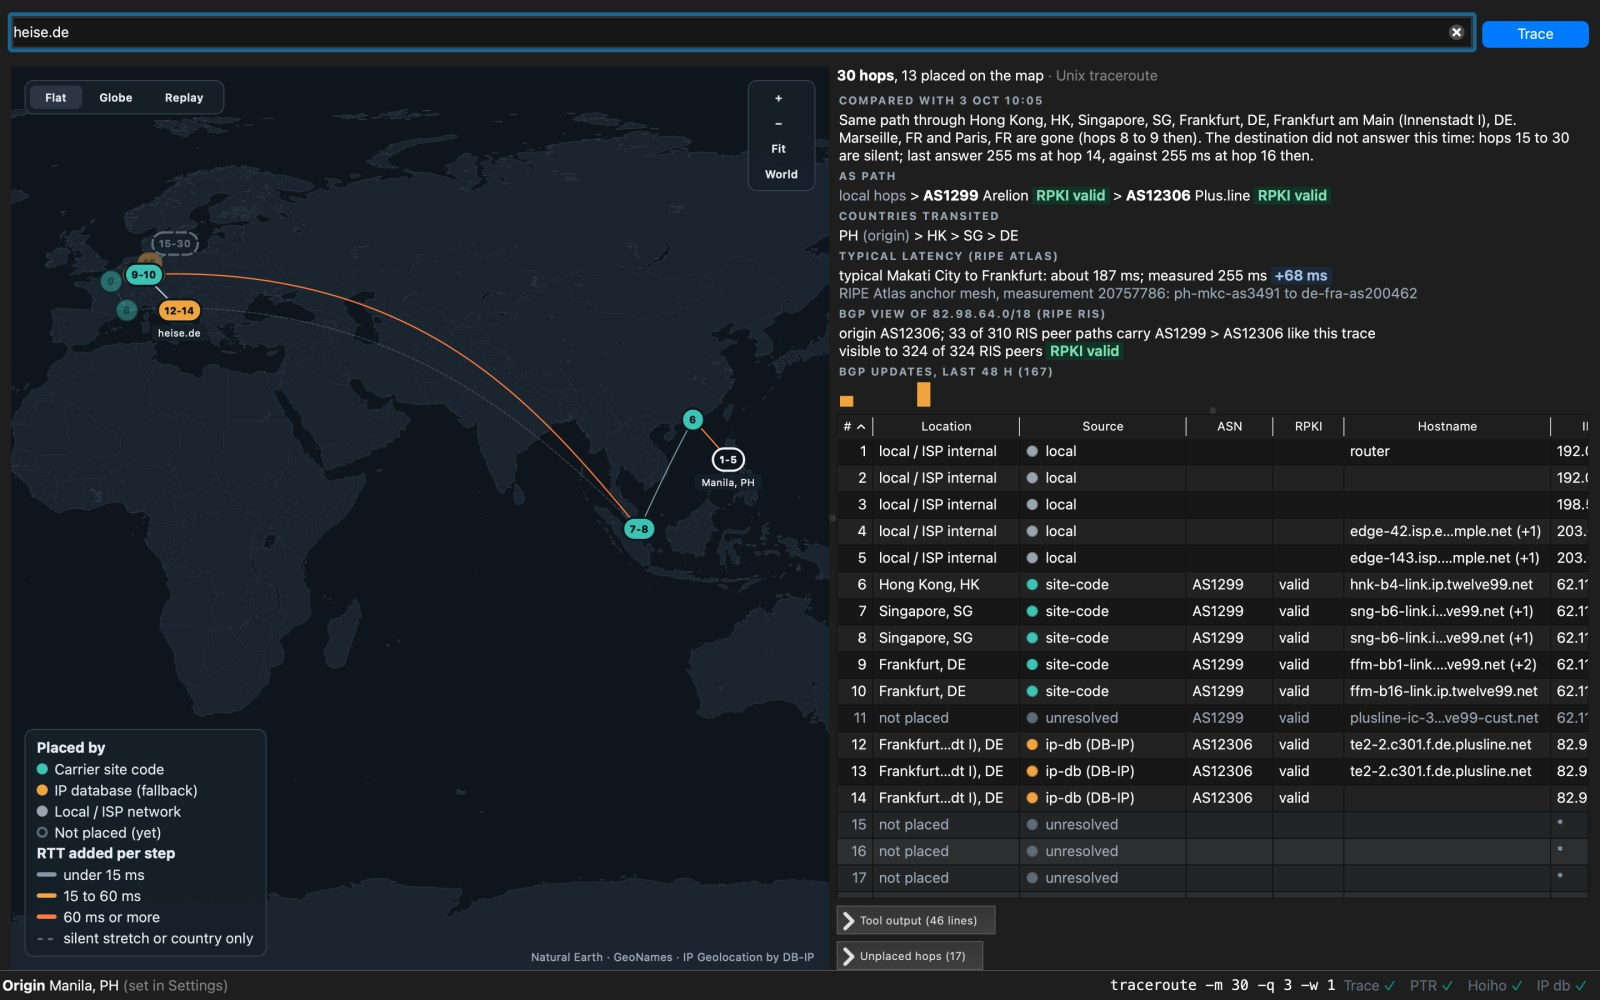
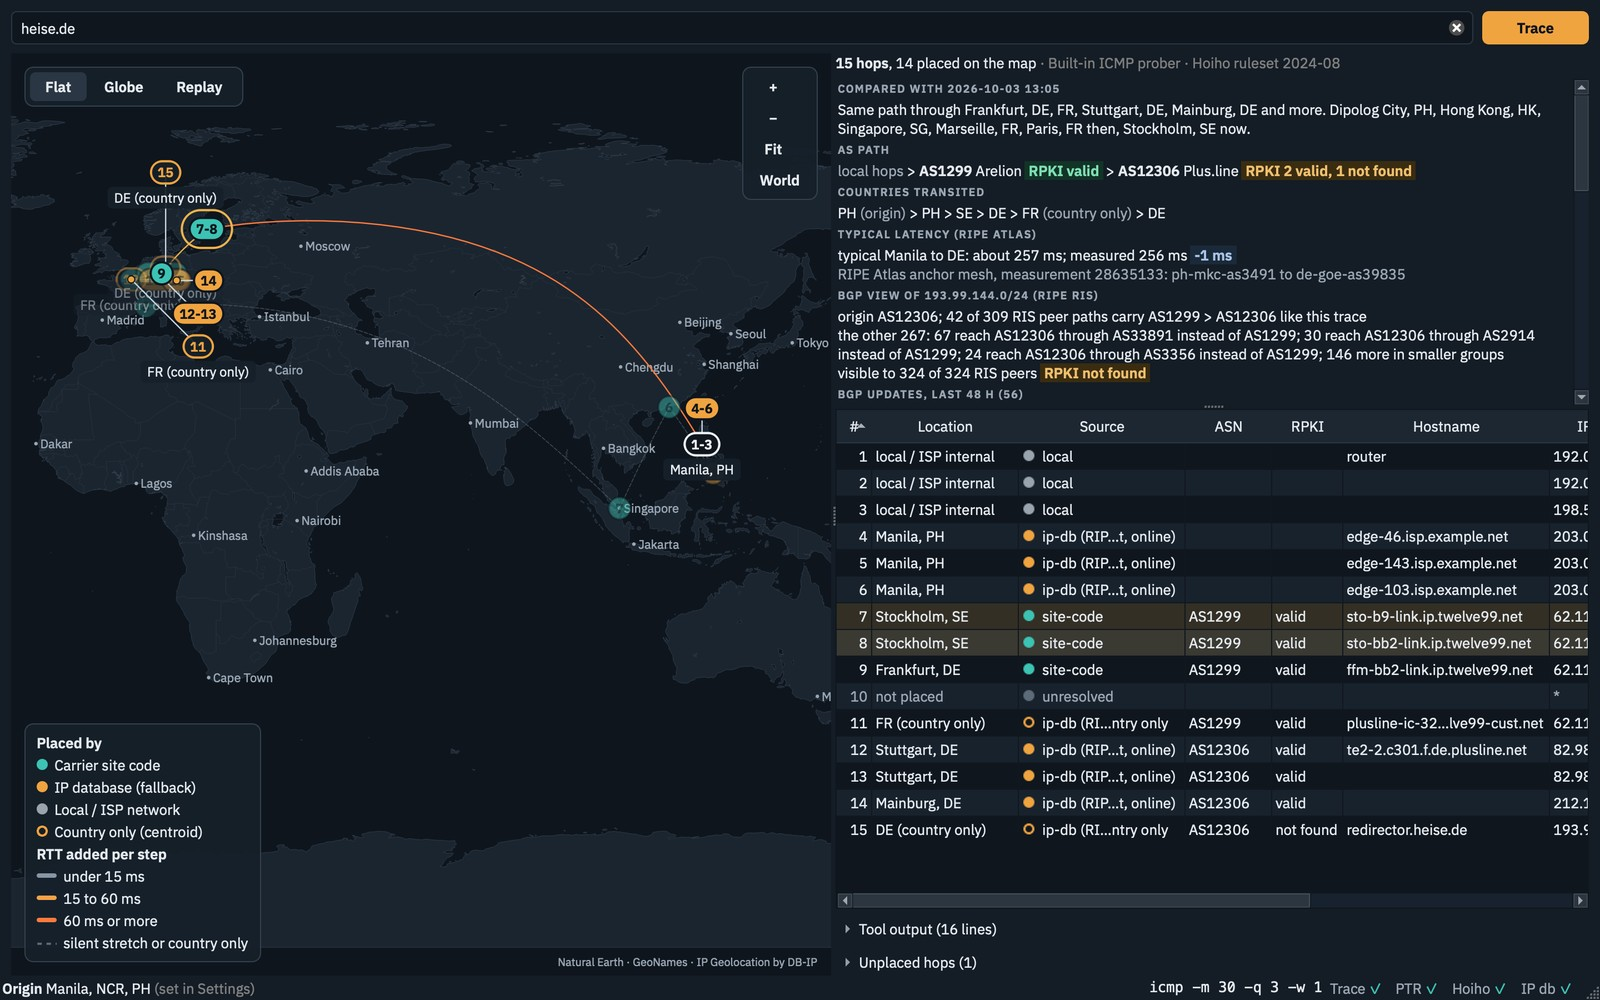
Site: screenshots from 0.2.0-beta.3 with live traces from Manila
Every app image on the home and screenshots pages is new, drawn by
0.2.0-beta.3 with live traces from the built-in prober (the home network
and ISP hops carry documentation addresses): heise.de via Stockholm and
Frankfurt, www.spiegel.de for the rejected placement, amazon.com for the
unplaced hops, and a comparison with the run of 3 October. The PDF page
and the light PNG export come from the installed release. Captions say
what each image shows; the share cards are rendered again from the new
window image.

diff --git a/site/content/home.html b/site/content/home.html
@@ -8,8 +8,8 @@
   {{downloads}}
   <p class="oss"><span class="badge">Free and open source, AGPL-3.0</span>
   <a class="source" href="{{repository}}">github.com/osintph/routemap</a></p>
-  [[pic window jpg 1600 1000 hero|Route Map with a recorded trace from Manila to heise.de: great-circle lines through Hong Kong, Singapore, Marseille and Paris to Frankfurt, coloured by the round-trip time each step added; beside the map the AS path with RPKI badges, the countries crossed, a RIPE Atlas baseline, the RIS view and 48 hours of BGP updates; below, the hop table with ASN and RPKI, and the details of hop 7 in Singapore]]
-  <p class="crop-note">A recorded trace from Manila to heise.de, origin set in Settings. The first five hops, the home network and the ISP, are shown with documentation addresses.</p>
+  [[pic window jpg 1600 1000 hero|Route Map 0.2.0-beta.3 with a live trace from Manila to heise.de: great-circle lines through Stockholm and Frankfurt to Stuttgart, coloured by the round-trip time each step added; beside the map the AS path with RPKI badges, the countries crossed, a RIPE Atlas baseline, the RIS view and 48 hours of BGP updates; below, the hop table with ASN and RPKI, and the details of hop 7 in Stockholm]]
+  <p class="crop-note">A live trace from Manila to heise.de with the built-in prober, origin set in Settings. The first six hops, the home network and the ISP, are shown with documentation addresses.</p>
 </section>
 
 <section class="rules" aria-labelledby="rules">
@@ -18,15 +18,15 @@
   <div class="rule">
     <div class="rule-text">
       <h3>Hostname first</h3>
-      <p>Operators name routers after their sites: <code>ffm-b16-link.ip.twelve99.net</code> is
-      Arelion in Frankfurt, and <code>hnk</code>, <code>sng</code>, <code>mei</code> and
-      <code>prs</code> are Hong Kong, Singapore, Marseille and Paris. For backbone routers an IP
+      <p>Operators name routers after their sites: <code>ffm-bb2-link.ip.twelve99.net</code> is
+      Arelion in Frankfurt, and <code>sto</code>, <code>hnk</code>, <code>sng</code> and
+      <code>prs</code> are Stockholm, Hong Kong, Singapore and Paris. For backbone routers an IP
       database often knows only the country, or the place where the address block was registered.
       Route Map reads the names first, with CAIDA's Hoiho rules and a table of carrier site codes,
       and falls back to an IP database only when the name says nothing: DB-IP Lite on your
       machine, or RIPEstat online.</p>
     </div>
-    [[pic rule1-sources png 1286 764 crop|The hop table: hops 1 to 5 local, hops 6 to 11 placed by carrier site code in Hong Kong, Singapore, Marseille, Paris and Frankfurt on Arelion's network, AS1299 with valid RPKI; hop 12 not placed; hops 13 to 15 placed in Frankfurt by DB-IP, AS12306]]
+    [[pic rule1-sources png 1286 764 crop|The hop table: hops 1 to 3 local and 4 to 6 the ISP; hops 7 to 9 placed by carrier site code in Stockholm and Frankfurt on Arelion's network, AS1299 with valid RPKI; hop 10 not placed; hops 11 to 15 placed by an IP database in France and Germany, AS1299 and AS12306]]
   </div>
 
   <div class="rule">
@@ -38,8 +38,8 @@
       farther than that is rejected, whatever its source, and the reason is shown. So is a
       database answer that would need a detour the round trip did not pay for.</p>
     </div>
-    [[pic rule2-rejected png 2330 180 crop wide|The Unplaced panel: hop 12, plusline-ic-323934.ip.twelve99-cust.net, location impossible for RTT: 6,964 km from hop 11 in Frankfurt and back again by hop 13, which needs 70 ms more RTT; it rose 46 ms]]
-    <p class="crop-note">The IP database puts hop 12 in Chicago, between two Frankfurt hops. Going there and back would add at least 70 ms; the round trip rose 46 ms, so the placement is rejected.</p>
+    [[pic rule2-rejected png 2330 180 crop wide|The Unplaced panel for a live trace to www.spiegel.de: hop 9, link11-ic-369430.ip.twelve99-cust.net, location impossible for RTT: 10,744 km away but the round trip allows at most 3,054 km; hop 11 rejected the same way]]
+    <p class="crop-note">The IP database puts hop 9 in France, 10,744 km from Manila. It answered in 27 ms, which allows at most 3,054 km, so the placement is rejected.</p>
   </div>
 
   <div class="rule">
@@ -49,7 +49,7 @@
       hollow. A hop that cannot be placed stays in the table and in the Unplaced panel, with the
       reason it is not on the map.</p>
     </div>
-    [[pic rule3-unplaced png 1354 436 crop|The Unplaced panel for a recorded trace to amazon.com: hops 9, 10, 12 and 16 to 18 did not answer, so there is nothing to locate]]
+    [[pic rule3-unplaced png 1354 436 crop|The Unplaced panel for a live trace to amazon.com: hop 6 and hops 12 to 30 did not answer, so there is nothing to locate]]
   </div>
 </section>
 
@@ -63,12 +63,12 @@
   Trace again and the app compares the two runs.</p>
   <div class="pair even">
     <figure class="shot">
-      [[pic globe jpg 1600 1000 bare|The same route on the globe, centred on the path from Manila to Frankfurt, with the route summary and hop details beside it]]
+      [[pic globe jpg 1600 1000 bare|The same route on the globe, centred on the path from Manila to Frankfurt, with the RTT chart and hop 7's details beside it]]
       <figcaption><strong>Globe</strong>, centred on the route; drag to turn it.</figcaption>
     </figure>
     <figure class="shot">
-      [[pic compare jpg 1600 1000 bare|A later run compared with the recorded one: the earlier path faint and dashed, and the summary saying Marseille and Paris are gone and the destination did not answer this time]]
-      <figcaption><strong>Trace again and compare</strong>: Marseille and Paris are gone, and the destination stopped answering.</figcaption>
+      [[pic compare jpg 1600 1000 bare|Today's live run compared with the run of 3 October: the earlier path through Hong Kong, Singapore, Marseille and Paris faint and dashed, and the summary saying the route now goes through Stockholm]]
+      <figcaption><strong>Trace again and compare</strong>: two days later the route went through Stockholm instead of Hong Kong, Singapore, Marseille and Paris.</figcaption>
     </figure>
   </div>
   <p>No submarine cables or exchange points yet: the cable data is sold under licence, and
@@ -84,7 +84,7 @@
   mapped the same way. Export a PNG map, the full trace as JSON, or a PDF report with every hop,
   its source and the raw tool output, from the window or the <a href="/docs/cli/">command line</a>.
   The same engine powers the Route Map tab in OSINTPH's <a href="{{falconeye}}">FalconEye</a>.</p>
-  [[pic statusbar png 2880 54 crop strip|The status bar: origin Manila, PH, set in Settings; the command traceroute -m 30 -q 3 -w 1; and checks for the trace, PTR, Hoiho and the IP database]]
+  [[pic statusbar png 2880 54 crop strip|The status bar: origin Manila, NCR, PH, set in Settings; the built-in prober's settings icmp -m 30 -q 3 -w 1; and checks for the trace, PTR, Hoiho and the IP database]]
 
   <h3 id="labels">The source labels</h3>
   <dl class="labels">

diff --git a/site/content/screenshots.html b/site/content/screenshots.html
@@ -1,19 +1,19 @@
 <article class="gallery-page">
 <h1>Screenshots</h1>
-<p class="lead">A recorded trace from Manila to heise.de, origin set in Settings, drawn by
-the app on the macOS desktop; the first five hops (the home network and the ISP) carry documentation
+<p class="lead">A live trace from Manila to heise.de with Route Map 0.2.0-beta.3's built-in
+prober, origin set in Settings; the first six hops (the home network and the ISP) carry documentation
 addresses. The images follow this site's light or dark mode, as the app follows the system.</p>
 <figure class="shot">
-  [[pic window jpg 1600 1000 bare|Route Map on macOS with a recorded trace from Manila to heise.de: the map, the route summary, the hop table and the details of hop 7]]
-  <figcaption><strong>macOS.</strong> Sixteen hops: the local network, then Hong Kong, Singapore, Marseille, Paris and Frankfurt on Arelion's backbone (AS1299), then Plus.line in Frankfurt (AS12306). Lines warm with the RTT each step added; the summary has the AS path with RPKI, the countries, a RIPE Atlas baseline and the RIS view.</figcaption>
+  [[pic window jpg 1600 1000 bare|Route Map 0.2.0-beta.3 on macOS with a live trace from Manila to heise.de: the map, the route summary, the hop table and the details of hop 7]]
+  <figcaption><strong>macOS.</strong> Fifteen hops: the home network and the ISP, then Stockholm and Frankfurt on Arelion's backbone (AS1299), then Plus.line in Germany (AS12306). Lines warm with the RTT each step added; the summary has the AS path with RPKI, the countries, a RIPE Atlas baseline and the RIS view.</figcaption>
 </figure>
 <figure class="shot">
   [[pic globe jpg 1600 1000 bare|The same route on the globe, centred on the path, with hop 7's details]]
   <figcaption><strong>Globe.</strong> Centred on the route; drag to turn it.</figcaption>
 </figure>
 <figure class="shot">
-  [[pic compare jpg 1600 1000 bare|A later run compared with the recorded one, the earlier path faint and dashed]]
-  <figcaption><strong>Trace again and compare.</strong> A run on 4 October against the recording of 3 October: same path to Singapore, Marseille and Paris gone, and heise.de no longer answering after hop 14.</figcaption>
+  [[pic compare jpg 1600 1000 bare|Today's live run compared with the run of 3 October, the earlier path faint and dashed]]
+  <figcaption><strong>Trace again and compare.</strong> A run on 5 October against the run of 3 October: the route now leaves through Stockholm instead of Hong Kong, Singapore, Marseille and Paris.</figcaption>
 </figure>
 <figure class="shot narrow">
   [[pic windows png 1028 749 bare|Route Map 0.2.0-beta.1 on Windows with the bundled sample trace to heise.de, mapped offline: carrier site codes and the AS path from the bundled DB-IP Lite ASN]]
@@ -31,6 +31,6 @@ addresses. The images follow this site's light or dark mode, as the app follows 
 </div>
 <figure class="shot">
   [[pic rule1-sources png 1286 764 bare|The hop table's Location, Source, ASN and RPKI columns]]
-  <figcaption><strong>The Source column</strong>: local for the home network and ISP, site codes for Arelion's backbone, DB-IP for the German hops; hop 12 is not placed because the round trip rules out the database's answer.</figcaption>
+  <figcaption><strong>The Source column</strong>: local for the home network, an IP database for the ISP and the German hops, site codes for Arelion's backbone; hop 10 did not answer, so it is not placed.</figcaption>
 </figure>
 </article>
